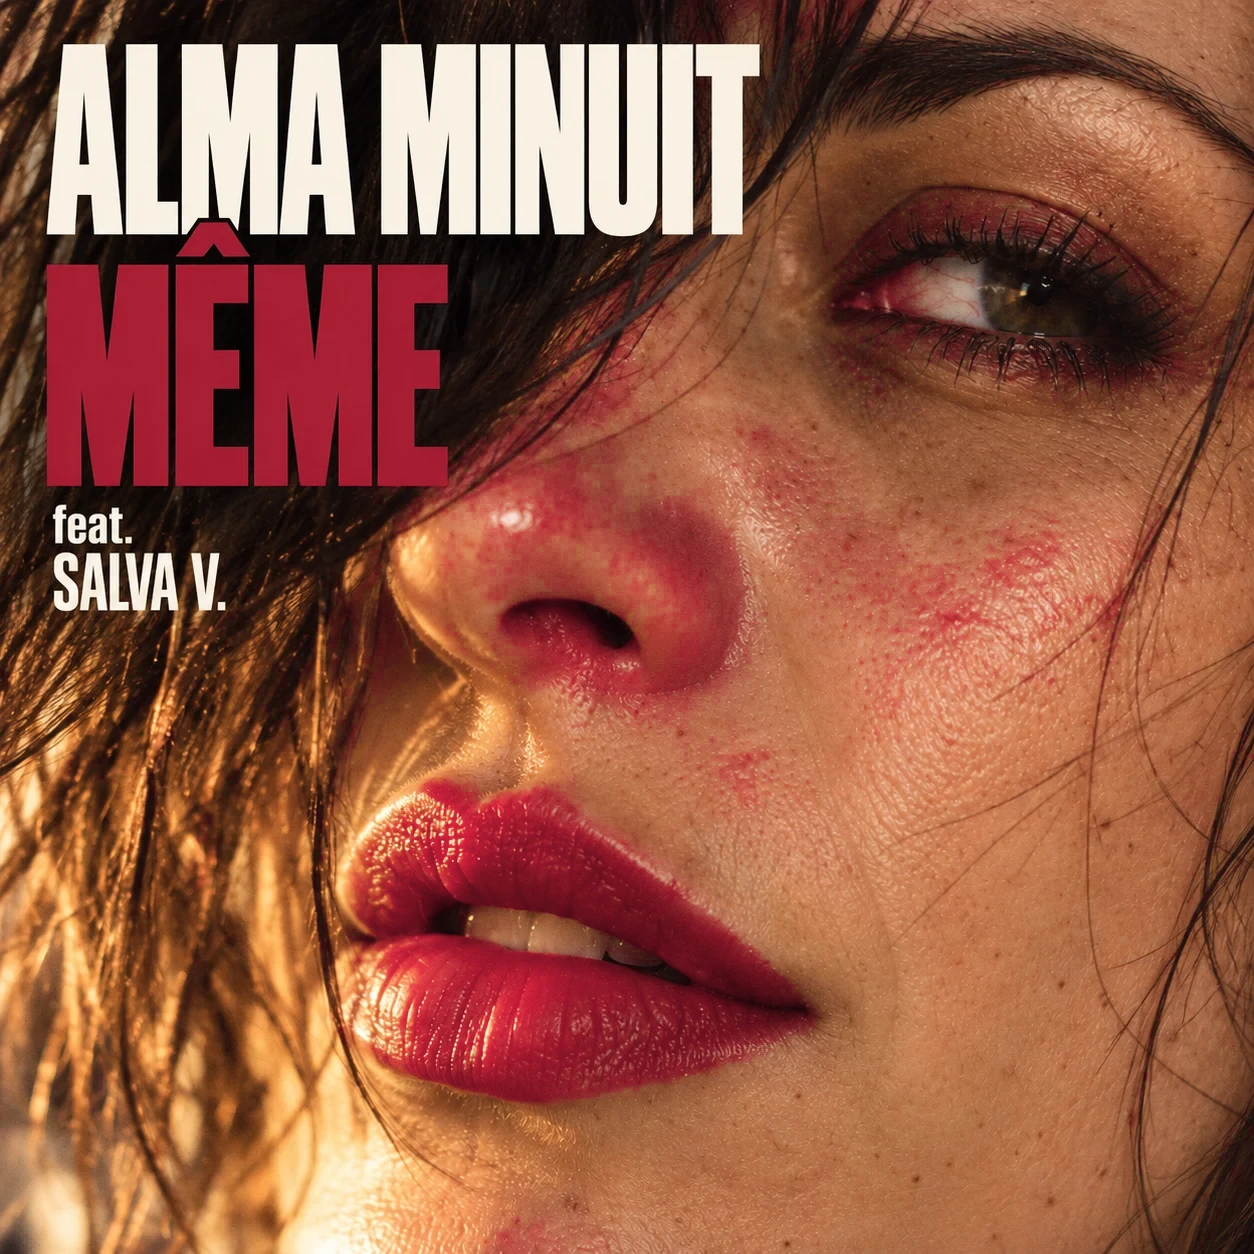
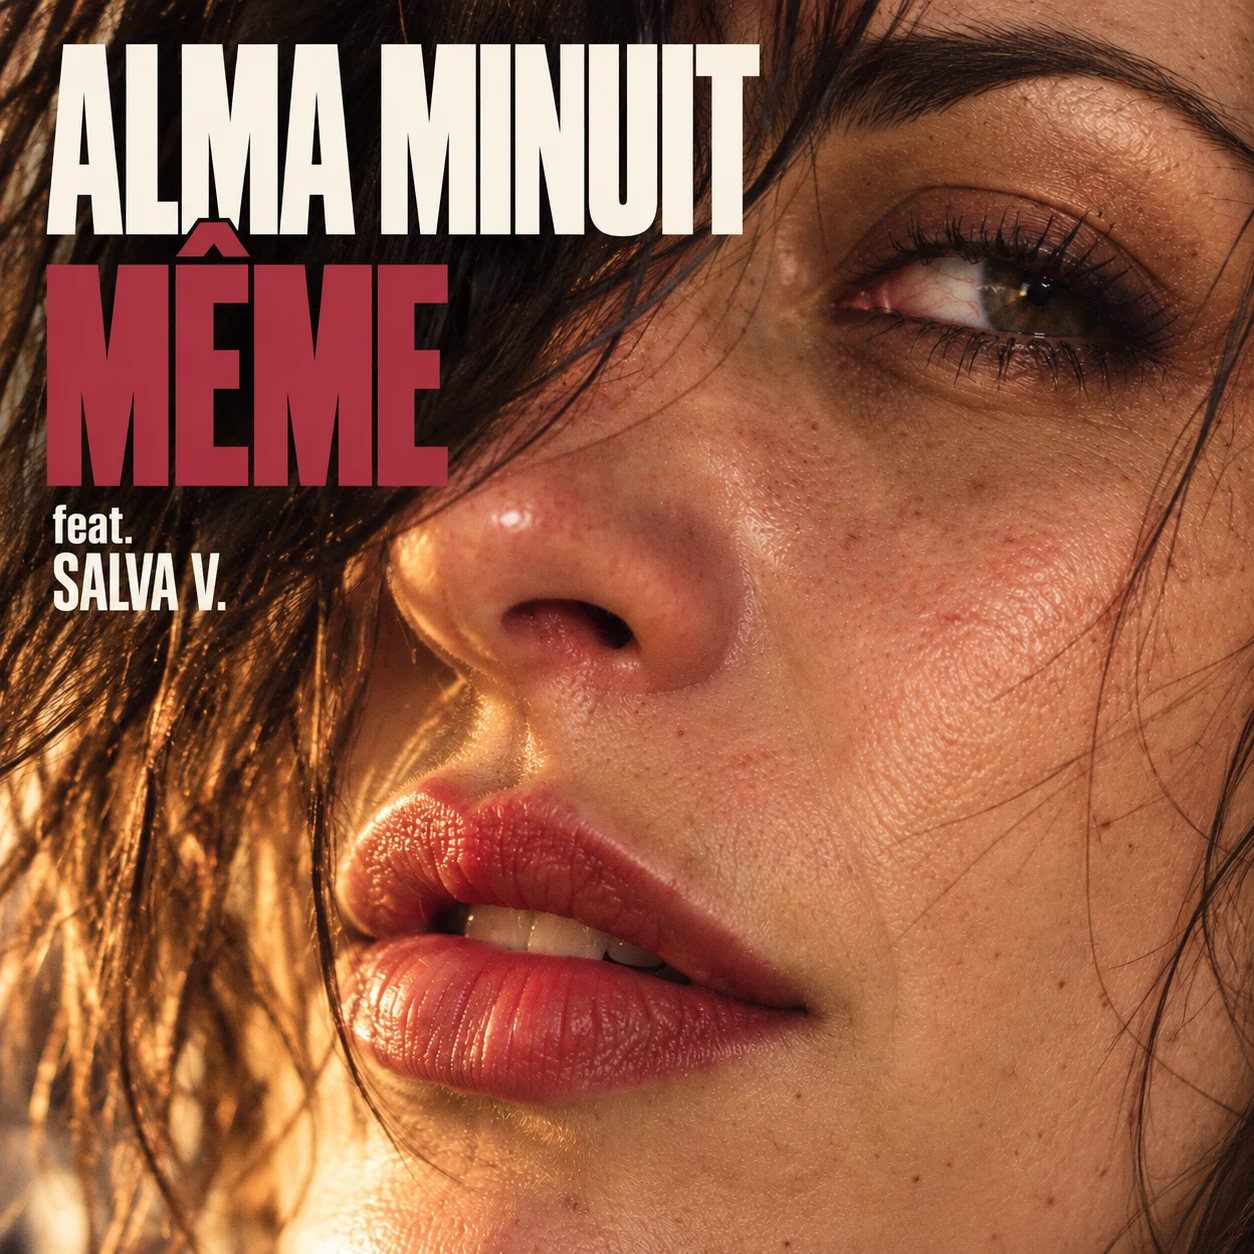
Resize news images and restore Alma Minuit cover colors

diff --git a/app/globals.css b/app/globals.css
@@ -335,7 +335,7 @@ body > footer a {
 
 .news-image {
   display: block;
-  width: 100%;
+  width: 50%;
   height: auto;
   margin-bottom: 24px;
 }
